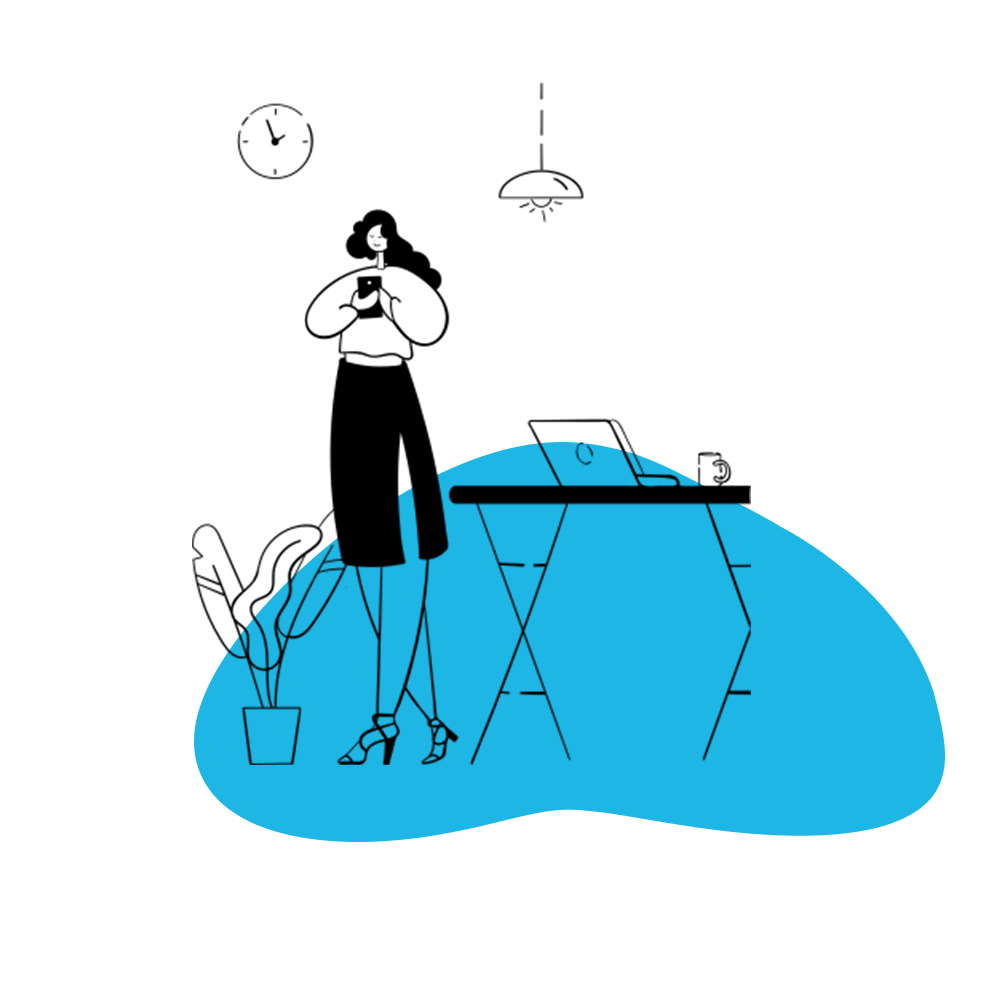
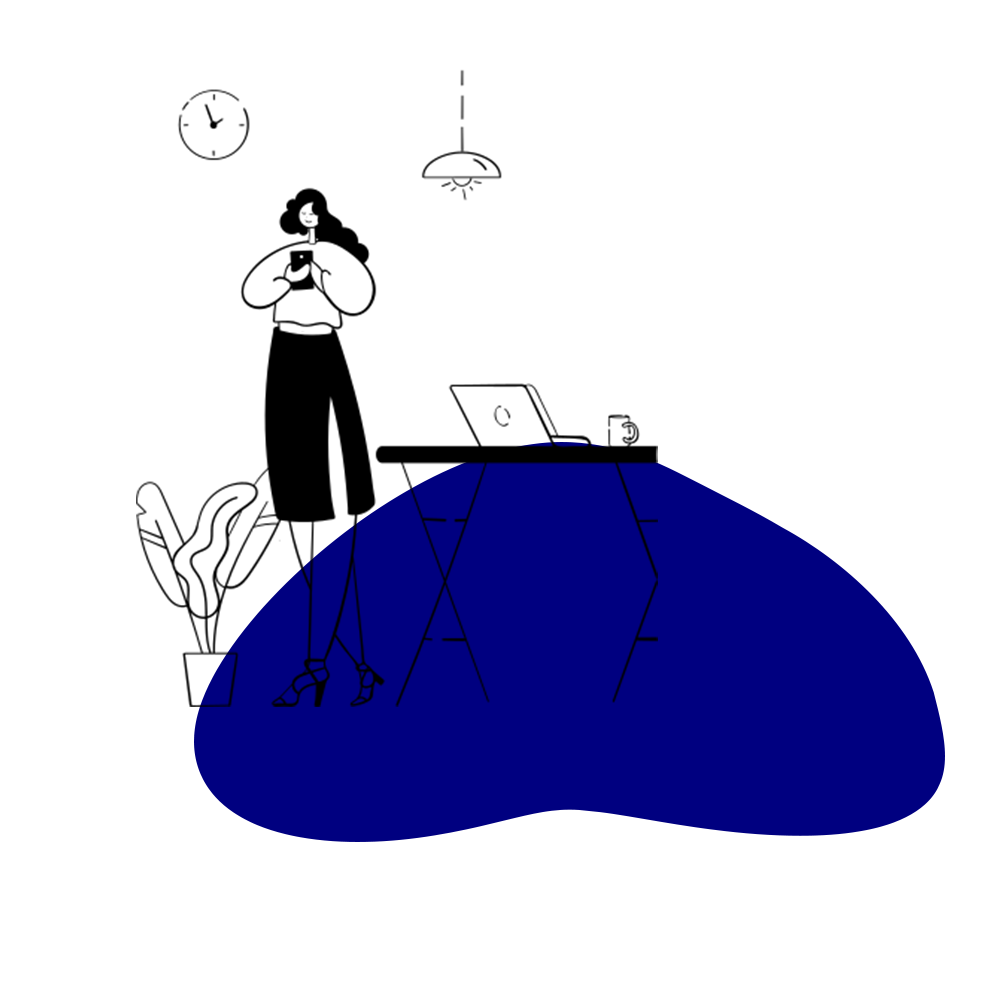
new changes

Changed region(s): [[0.124, 0.093, 0.961, 0.868], [0.403, 0.093, 0.589, 0.217], [0.434, 0.279, 0.465, 0.341]]

diff --git a/layouts/_default/home.html b/layouts/_default/home.html
@@ -31,7 +31,11 @@
   <div class="container">
     <div class="row align-items-center">
       <div class="col-lg-5" data-aos="fade-right" data-aos-delay="200">
-        <img src="/assets/img/feedback.png" alt="feedback" class="img-fluid" />
+        <img
+          src="/assets/img/feedback-2.png"
+          alt="feedback"
+          class="img-fluid"
+        />
         <div class="btn">
           <a href="/testimonials"
             >More Experiences <i class="bi bi-caret-right"></i

diff --git a/layouts/_default/testimonials.html b/layouts/_default/testimonials.html
@@ -5,7 +5,11 @@
   <div class="container">
     <div class="row align-items-center">
       <div class="col-lg-5">
-        <img src="/assets/img/feedback.png" alt="feedback" class="img-fluid" />
+        <img
+          src="/assets/img/feedback-2.png"
+          alt="feedback"
+          class="img-fluid"
+        />
       </div>
 
       <div class="col-lg-7">

diff --git a/static/assets/css/style.css b/static/assets/css/style.css
@@ -2,7 +2,7 @@
 # General
 --------------------------------------------------------------*/
 :root {
-  --yellow: #1eb6e4;
+  --yellow: #000080;
 }
 body {
   font-family: "Open Sans", sans-serif;
